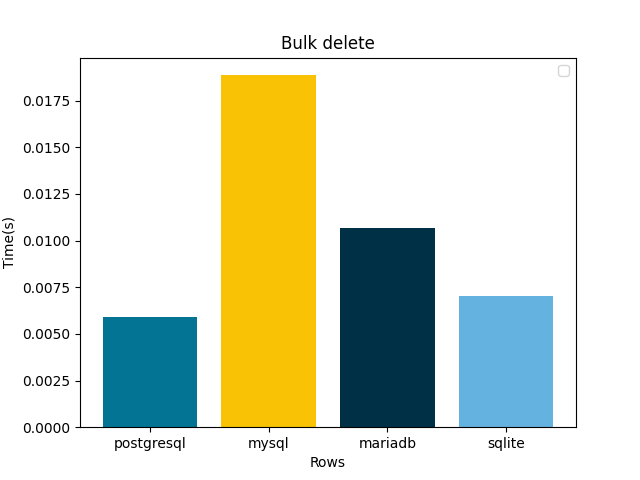
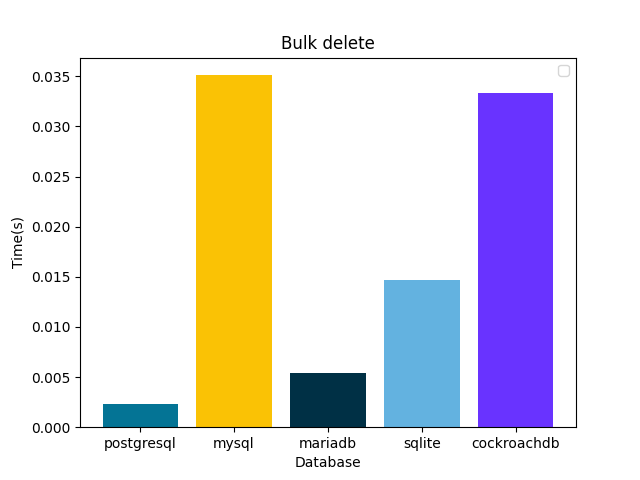
added cockroach_db_support

diff --git a/benchmark/settings.py b/benchmark/settings.py
@@ -71,7 +71,7 @@ WSGI_APPLICATION = 'benchmark.wsgi.application'
 
 # Database
 # https://docs.djangoproject.com/en/3.2/ref/settings/#databases
-DB_ENGINE = os.getenv('DB_ENGINE', 'sqlite3')
+DB_ENGINE = os.getenv('DB_ENGINE', 'sqlite')
 DATABASES = {
     'default': {
         'ENGINE': 'django.db.backends.sqlite3',
@@ -87,6 +87,17 @@ if DB_ENGINE == 'postgresql':
             'HOST': 'db',  # Not used with sqlite3.
             'PASSWORD': os.getenv('POSTGRES_PASSWORD'),  # Set to empty string for localhost. Not used with sqlite3.
             'PORT': '5432',  # Set to empty string for default. Not used with sqlite3.
+        },
+    }
+elif DB_ENGINE == 'cockroachdb':
+    DATABASES = {
+        'default': {
+            'ENGINE': 'django_cockroachdb',
+            'NAME': os.getenv('COCKROACH_DATABASE'),  # Or path to database file if using sqlite3.
+            'USER': 'root',  # Not used with sqlite3.
+            'HOST': 'db',  # Not used with sqlite3.
+            'PASSWORD': '',  # Set to empty string for localhost. Not used with sqlite3.
+            'PORT': '26257',  # Set to empty string for default. Not used with sqlite3.
         },
     }
 elif DB_ENGINE == 'mysql':
@@ -153,4 +164,4 @@ STATIC_URL = '/static/'
 DEFAULT_AUTO_FIELD = 'django.db.models.BigAutoField'
 
 ROWS_LIST = (1000,)
-DB_ENGINES = ['postgresql', 'mysql', 'mariadb', 'sqlite']
+DB_ENGINES = ['postgresql', 'mysql', 'mariadb', 'sqlite', 'cockroachdb']

diff --git a/tables/tests/test_checks.py b/tables/tests/test_checks.py
@@ -1,0 +1,33 @@
+from django.test.testcases import override_settings, TestCase
+from unittest.mock import patch
+from tables.check import CheckBulkDelete, CheckBulkInsert
+from tables.models import SimpleTable
+
+
+class TestCheck(TestCase):
+    @override_settings(ROWS_LIST=[2, 3, 4])
+    @patch('tables.check.bulk_delete.CheckBulkDelete.check_rows', return_value=1)
+    def test_check_all(self, *args):
+        check = CheckBulkDelete()
+        time_list = check.check_all()
+        self.assertListEqual(time_list, [
+            {'rows': 2, 'time': 1},
+            {'rows': 3, 'time': 1},
+            {'rows': 4, 'time': 1}
+        ])
+
+    def test_bulk_delete_create_rows(self):
+        check = CheckBulkDelete()
+        SimpleTable.objects.bulk_create((SimpleTable(name='22') for _ in range(3)))
+        check.create_rows(2)
+        self.assertEqual(SimpleTable.objects.all().count(), 2)
+
+    def test_bulk_delete(self):
+        check = CheckBulkDelete()
+        check.check_rows(2)
+        self.assertEqual(SimpleTable.objects.all().count(), 0)
+
+    def test_check_rows(self):
+        check = CheckBulkInsert()
+        check.check_rows(2)
+        self.assertEqual(SimpleTable.objects.all().count(), 2)

diff --git a/tables/check/select_value.py b/tables/check/select_value.py
@@ -4,15 +4,16 @@ from tables.check.base import CheckBase
 from tables.models import SimpleTable
 
 
-class CheckBulkUpdate(CheckBase):
-    name = 'bulk_update'
-    graph_title = 'Bulk update'
+class CheckSelect(CheckBase):
+    name = 'select'
+    graph_title = 'Select non indexed'
 
     def check_rows(self, rows):
         SimpleTable.objects.all().delete()
-        values = (SimpleTable(name='testname') for _ in range(rows))
+        values = (SimpleTable(name=f'test{i}') for i in range(rows))
         SimpleTable.objects.bulk_create(values)
         start_time = time()
-        SimpleTable.objects.all().update(name='newname')
+        for i in range(rows):
+            SimpleTable.objects.get(name=f'test{i}')
         time_taken = time() - start_time
         return time_taken

diff --git a/tables/check/delete.py b/tables/check/delete.py
@@ -4,9 +4,9 @@ from tables.check.base import CheckBase
 from tables.models import SimpleTable
 
 
-class CheckBulkDelete(CheckBase):
-    name = 'bulk_delete'
-    graph_title = 'Bulk delete'
+class CheckDelete(CheckBase):
+    name = 'delete'
+    graph_title = 'Delete'
 
     def create_rows(self, rows):
         SimpleTable.objects.all().delete()
@@ -15,7 +15,9 @@ class CheckBulkDelete(CheckBase):
 
     def check_rows(self, rows):
         self.create_rows(rows)
+        start_pk = SimpleTable.objects.all().order_by('id')[0].pk
         start_time = time()
-        SimpleTable.objects.all().delete()
+        for i in range(rows):
+            SimpleTable.objects.filter(pk=start_pk + i).delete()
         time_taken = time() - start_time
         return time_taken

diff --git a/tables/check/__init__.py b/tables/check/__init__.py
@@ -1,8 +1,20 @@
 from tables.check.bulk_update import CheckBulkUpdate
+from tables.check.delete import CheckDelete
 from tables.check.insert import CheckInsert
 from tables.check.bulk_insert import CheckBulkInsert
 from tables.check.bulk_delete import CheckBulkDelete
 from tables.check.update import CheckUpdate
+from tables.check.select_value import CheckSelect
+from tables.check.select_indexed import CheckSelectIndex
 
-ALL_CHECKS = (CheckInsert, CheckBulkInsert, CheckBulkDelete, CheckUpdate, CheckBulkUpdate)
+ALL_CHECKS = (
+    CheckInsert,
+    CheckBulkInsert,
+    CheckBulkDelete,
+    CheckUpdate,
+    CheckBulkUpdate,
+    CheckDelete,
+    CheckSelect,
+    CheckSelectIndex,
+)
 ALL_NAMES = [x.name for x in ALL_CHECKS]

diff --git a/tables/check/select_indexed.py b/tables/check/select_indexed.py
@@ -1,0 +1,19 @@
+from time import time
+
+from tables.check.base import CheckBase
+from tables.models import SimpleIndexedTable
+
+
+class CheckSelectIndex(CheckBase):
+    name = 'select_index'
+    graph_title = 'Select indexed'
+
+    def check_rows(self, rows):
+        SimpleIndexedTable.objects.all().delete()
+        values = (SimpleIndexedTable(name=f'test{i}', other_name='other') for i in range(rows))
+        SimpleIndexedTable.objects.bulk_create(values)
+        start_time = time()
+        for i in range(rows):
+            SimpleIndexedTable.objects.get(name=f'test{i}')
+        time_taken = time() - start_time
+        return time_taken

diff --git a/tables/migrations/0002_create_simple_indexed_table.py b/tables/migrations/0002_create_simple_indexed_table.py
@@ -1,0 +1,21 @@
+# Generated by Django 3.2.8 on 2021-10-21 17:03
+
+from django.db import migrations, models
+
+
+class Migration(migrations.Migration):
+
+    dependencies = [
+        ('tables', '0001_initial'),
+    ]
+
+    operations = [
+        migrations.CreateModel(
+            name='SimpleIndexedTable',
+            fields=[
+                ('id', models.BigAutoField(auto_created=True, primary_key=True, serialize=False, verbose_name='ID')),
+                ('name', models.CharField(db_index=True, max_length=50)),
+                ('other_name', models.CharField(max_length=50)),
+            ],
+        ),
+    ]

diff --git a/tables/check/bulk_insert.py b/tables/check/bulk_insert.py
@@ -4,17 +4,13 @@ from tables.check.base import CheckBase
 from tables.models import SimpleTable
 
 
-def row_generator(rows):
-    for _ in range(rows):
-        yield SimpleTable(name='testname')
-
-
 class CheckBulkInsert(CheckBase):
     name = 'bulk_insert'
     graph_title = 'Bulk insert'
 
     def check_rows(self, rows):
         start_time = time()
-        SimpleTable.objects.bulk_create(row_generator(rows))
+        values = (SimpleTable(name='testname') for _ in range(rows))
+        SimpleTable.objects.bulk_create(values)
         time_taken = time() - start_time
         return time_taken

diff --git a/tables/check/base.py b/tables/check/base.py
@@ -40,10 +40,10 @@ class CheckBase:
         self.save_file(data)
 
     def create_graph(self):
-        my_colors = ('#047495', '#fac205', '#003045', '#63b2e0')
+        my_colors = ('#047495', '#fac205', '#003045', '#63b2e0','#6933ff')
         fig, ax = plt.subplots()
         ax.set_ylabel('Time(s)')
-        ax.set_xlabel('Rows')
+        ax.set_xlabel('Database')
         index = []
         values = []
         for engine in settings.DB_ENGINES:

diff --git a/tables/models.py b/tables/models.py
@@ -3,3 +3,8 @@ from django.db import models
 
 class SimpleTable(models.Model):
     name = models.CharField(max_length=50)
+
+
+class SimpleIndexedTable(models.Model):
+    name = models.CharField(max_length=50, db_index=True)
+    other_name = models.CharField(max_length=50)

diff --git a/README.md b/README.md
@@ -1,40 +1,64 @@
-# django-db-benchmark
-Database benchmark with Django ORM
+# Comparing Database performance with Django ORM
 
 - Postgresql 
 - MySQL
 - MariaDB
 - SQLite
 
-Compating databse operation perfomence using django ORM 
+Comparing database operation performance using django ORM.
 
-Postgreql vs MySQL vs MariaDB vs SQLite
+PostgreSQL vs MySQL vs MariaDB vs SQLite
 
 
 
 ## Insert performance comparison 
-Smaller is better Here *PostgreSQL* wins
+Tested 1000 row insert in all databases and calculated time is taken.
 
 ![Insert](media/graphs/insert.png)
 
 ## Bulk Insert performance comparison 
-Smaller is better Here *SQLite* wins
+Tested 1000 row bulk insert in all databases and calculated time is taken.
 
 ![Insert](media/graphs/bulk_insert.png)
 
 ## Bulk Delete performance comparison 
-Smaller is better Here *SQLite* wins
+Tested 1000 row delete in all databases and calculated time is taken.
+
+![Insert](media/graphs/delete.png)
+
+## Bulk Delete performance comparison 
+Tested 1000 row bulk delete in all databases and calculated time is taken.
 
 ![Insert](media/graphs/bulk_delete.png)
 
 ## Update performance comparison 
-Smaller is better Here *SQLite* wins
+Tested 1000 row update in all databases and calculated time is taken.
 
 ![Insert](media/graphs/update.png)
 
 
 ## Bulk update performance comparison 
-Smaller is better Here *SQLite* wins
+Tested 1000 row bulk update in all databases and calculated time is taken.
 
 ![Insert](media/graphs/bulk_update.png)
+
+
+
+## Select performance comparison 
+Tested 1000 in 1000 rows select operation in non indexed column in all databases and calculated time is taken.
+
+![Insert](media/graphs/select.png)
+
+
+## Select index performance comparison 
+Tested 1000 in 1000 rows select operation in indexed column in all databases and calculated time is taken.
+
+![Insert](media/graphs/select_index.png)
+
+## Installation 
+
+- install docker and compose 
+- clone repository
+- run ./start.sh
+- result will be stored in reports/graph
 
